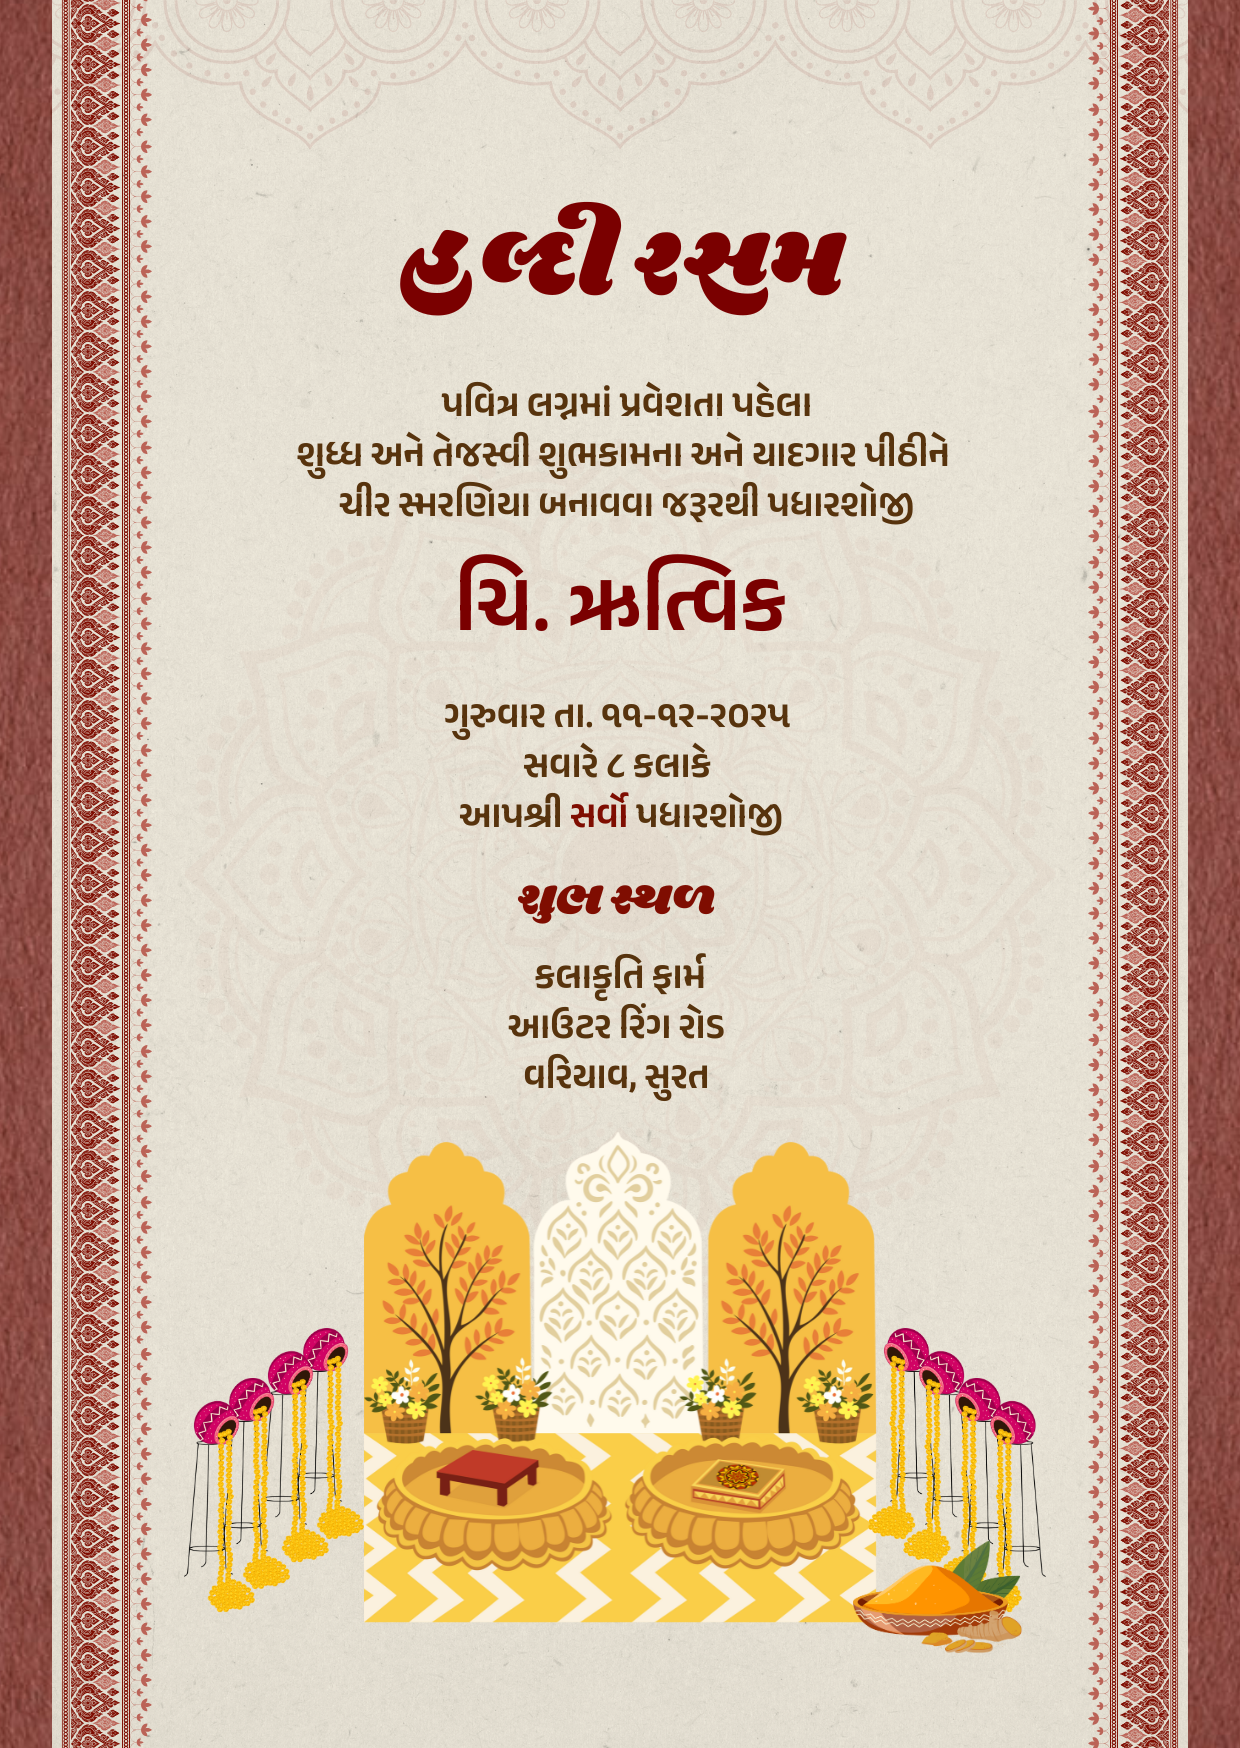
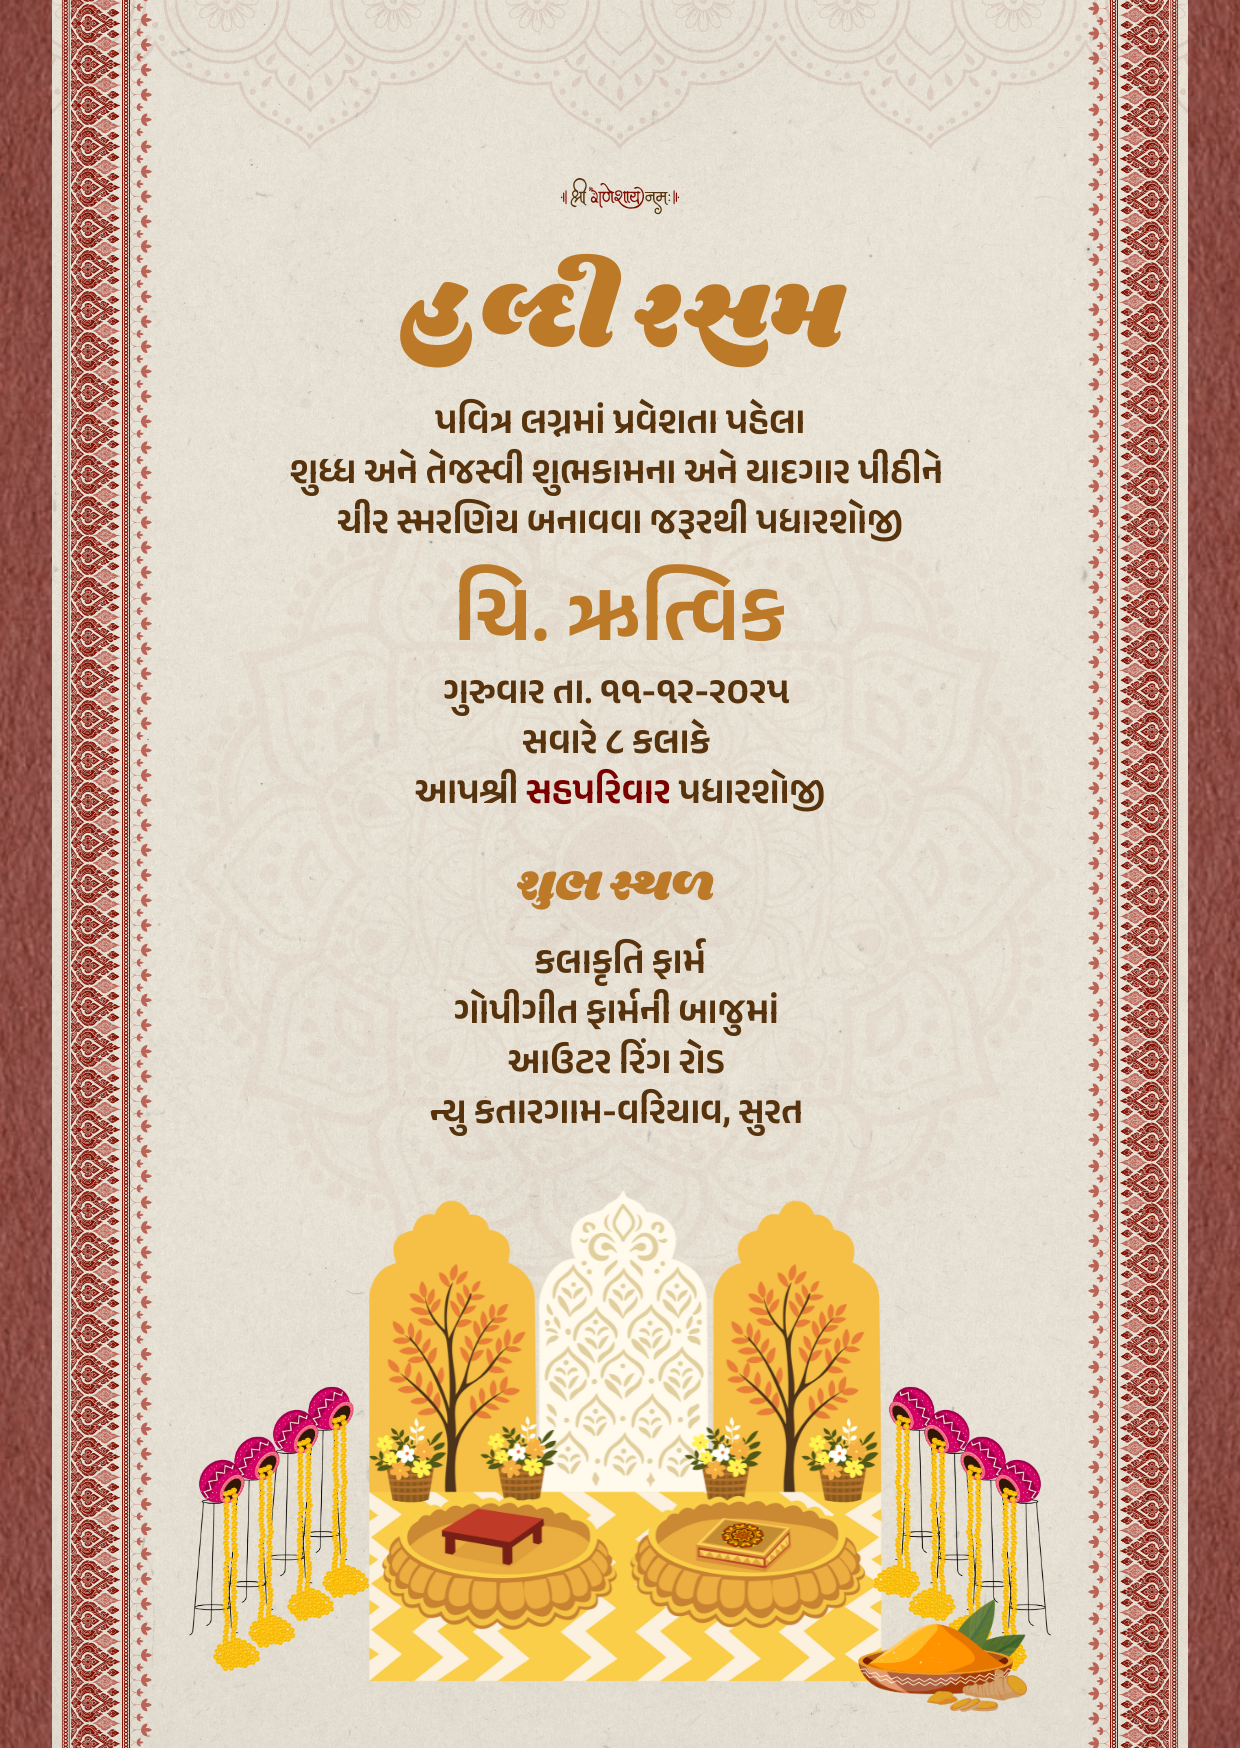
location and image update

Changed region(s): [[0.1532, 0.0927, 0.8581, 0.9886]]

diff --git a/index.html b/index.html
@@ -33,6 +33,17 @@
 
     </div>
 
+    <div class="location-buttons" id="locationButtons" style="display:none;">
+        <a href="https://maps.app.goo.gl/R5AGCNo9C5mb7X217" target="_blank" rel="noopener noreferrer"
+            class="map-btn jaan-btn">
+            📍 સહજ ફાર્મ
+        </a>
+        <a href="https://maps.app.goo.gl/spBv7As2qnrt7cCe9" target="_blank" rel="noopener noreferrer"
+            class="map-btn sangeet-btn">
+            📍 કલાકૃતિ ફાર્મ
+        </a>
+    </div>
+
 </body>
 
 <script>
@@ -66,7 +77,7 @@
     // Load guest only once
     async function loadGuest() {
         // Clear any previously added variant pages (supports re-run on new UUID without full reload)
-        ['page4','page5','page6','page7'].forEach(id => {
+        ['page4', 'page5', 'page6', 'page7'].forEach(id => {
             const el = document.getElementById(id);
             if (el) el.remove();
         });
@@ -147,6 +158,23 @@
             const mandap = readField(guestRecord, 'mandap');
             const sangeet = readField(guestRecord, 'sangeet');
             const jaan = readField(guestRecord, 'jaan');
+
+            const locationBox = document.getElementById("locationButtons");
+            const sangeetBtn = document.querySelector(".sangeet-btn");
+            const jaanBtn = document.querySelector(".jaan-btn");
+
+            // show the container now that data is ready
+            locationBox.style.display = "flex";
+
+            // sangeet always visible
+            sangeetBtn.style.display = "inline-block";
+
+            // jaan only if invited
+            if (guestRecord.jaan == 0 || guestRecord.jaan === "0") {
+                jaanBtn.style.display = "none";
+            } else {
+                jaanBtn.style.display = "inline-block";
+            }
 
             const addVariantPage = (prefix, value) => {
                 if (value !== 2 && value !== 4) return; // ignore 0/invalid

diff --git a/style.css b/style.css
@@ -102,3 +102,35 @@ body {
 .hidden {
   display: none !important;
 }
+
+.location-buttons {
+  position: fixed;
+  bottom: 20px;
+  left: 50%;
+  transform: translateX(-50%);
+
+  width: 100%;
+  max-width: 500px;       /* ⬅ max width */
+  
+  display: flex;
+  gap: 20px;
+  justify-content: center; /* center if one button */
+  z-index: 999999;
+}
+
+.map-btn {
+  background: #7f0d01;
+  color: white;
+  flex: 1;                 /* equal width for both */
+  
+  height: 60px;
+  line-height: 60px;       /* vertical centering */
+  
+  border-radius: 50px;
+  font-family: 'Anek Gujarati', serif;
+  font-size: 22px;
+  font-weight: bold;
+  text-decoration: none;
+  text-align: center;       /* horizontal centering */
+  box-shadow: 0 4px 10px rgba(0, 0, 0, 0.3);
+}
